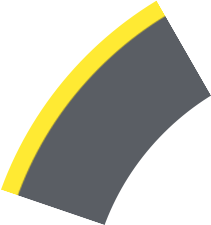
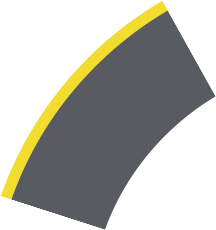
rfr newCircle

diff --git a/css/newCircle.css b/css/newCircle.css
@@ -191,7 +191,7 @@ body
 }
 .container .wrapper .big-circle#section2 .inner .big-item:nth-child(1)
 {
-    transform: rotate(0deg) translate(-51%,-50%);
+    transform: rotate(0deg) translate(-50%,-50%);
 }
 .container .wrapper .big-circle#section2 .inner .big-item#Mechanical:nth-child(1) div
 {
@@ -203,7 +203,7 @@ body
 }
 .container .wrapper .big-circle#section2 .inner .big-item:nth-child(2)
 {
-    transform:rotate(180deg) translate(0%,64%);
+    transform:rotate(180deg) translate(-0.5%,64%);
 }
 .container .wrapper .big-circle#section2 .inner .big-item#Mechanical:nth-child(2) div
 {
@@ -242,11 +242,11 @@ body
 }
 .container .wrapper .big-circle#section3 .inner .big-item:nth-child(2)
 {
-    transform:rotate(126deg) translate(-84%,40.5%);
+    transform:rotate(124deg) translate(-86.5%,39%);
 }
 .container .wrapper .big-circle#section3 .inner .big-item#Police:nth-child(2) div
 {
-    transform:rotate(-56deg) translate(-44%,66%);
+    transform:rotate(-62deg) translate(-48%,39%);
 }
 .container .wrapper .big-circle#section3 .inner .big-item:nth-child(3)
 {
@@ -254,7 +254,7 @@ body
 }
 .container .wrapper .big-circle#section3 .inner .big-item#Police:nth-child(3) div
 {
-    transform: rotate(124deg) translate(47%,-78%);
+    transform: rotate(122deg) translate(45%,-46%);
 }
 /* BIG 4  */
 .container .wrapper .big-circle#section4 .inner .big-item
@@ -263,8 +263,8 @@ body
     top: 50%;
     left: 25%;
     transform: translate(-51%,-50%);
-    width: 181px;
-    height: 501px;
+    width: 189px;
+    height: 521px;
     transform-origin: 75% 57%;
     overflow: hidden;
     cursor: pointer;
@@ -277,17 +277,17 @@ body
 }
 .container .wrapper .big-circle#section4 .inner .big-item:nth-child(1)
 {
-    transform:rotate(0deg) translate(-101.5%,-49.5%);
+    transform:rotate(0deg) translate(-97%,-49.7%);
 }
 .container .wrapper .big-circle#section4 .inner .big-item:nth-child(2)
 {
-    transform:rotate(90deg) translate(-285%,-1.5%);
+    transform:rotate(90deg) translate(-277.1%,-1%);
 }
 .container .wrapper .big-circle#section4 .inner .big-item:nth-child(3)
 {
-    transform:rotate(180deg) translate(-154%,65%);
+    transform:rotate(180deg) translate(-142.5%,64.5%);
 }
 .container .wrapper .big-circle#section4 .inner .big-item:nth-child(4)
 {
-    transform:rotate(270deg) translate(31%,17.5%);
+    transform:rotate(270deg) translate(37.5%,15.5%);
 }

diff --git a/js/newCircle.js b/js/newCircle.js
@@ -1,16 +1,32 @@
 let menuTitleList = {
     'Police':[
-        'собрать улики',
-        'отобрать права',
-        'отобрать лицензию на оружие'
+        { 
+            id:'собрать улики'
+        },
+        { 
+            id:'отобрать права'
+        },
+        { 
+            id:'отобрать лицензию на оружие'
+        }
     ],
     'Medical':[
-        'провести осмотр',
-        'посмотреть мед.карту'
+        { 
+            id:'провести осмотр',
+            img:'img/fractionCircle/watchPatient.png'
+        },
+        {
+            id:'посмотреть мед.карту',
+            img:'img/fractionCircle/medicalCard.png'
+        }
     ],
     'Mechanical':[
-        'провести диагностику',
-        'посмотреть сервисную книжку'
+        { 
+            id:'провести диагностику'
+        },
+        { 
+            id:'посмотреть сервисную книжку'
+        }
     ]
 };
 function addFractionCircle(fractionName)
@@ -18,7 +34,8 @@ function addFractionCircle(fractionName)
     $('.big-circle').remove();
     let items = '';
      $(menuTitleList[fractionName]).each(function(index,item){
-        items += `<div class="big-item" id="${fractionName}"><span>${item}</span></div>`;
+        // ${item.img != undefined ? `<img src="${item.img}">` : item.id}
+        items += `<div class="big-item" id="${fractionName}"><span>${item.id}</span></div>`;
      });
      let template = `
         <div class="big-circle" id="section${menuTitleList[fractionName].length}">
@@ -36,7 +53,8 @@ function addFractionCircle(fractionName)
     }
     if(menuTitleList[fractionName].length == 3)
     {
-        document.querySelectorAll('.big-circle#section3 .big-item').forEach(function(item,index){
+        document.querySelectorAll('.big-circle#section3 .big-item')
+        .forEach(function(item,index){
             if(index == 2)
             {
                circleType = new CircleType(item).dir(-1).radius(240);

diff --git a/newCircle.html b/newCircle.html
@@ -43,6 +43,14 @@
                     </div>
                 </div>
             </div>
+            <div class="big-circle" id="section4">
+                <div class="inner">
+                   <div class="big-item"></div>
+                   <div class="big-item"></div>
+                   <div class="big-item"></div>
+                   <div class="big-item"></div>
+                </div>
+            </div>
         </div>
     </div>
     <script src="js/jquery-3.3.1.min.js"></script>
